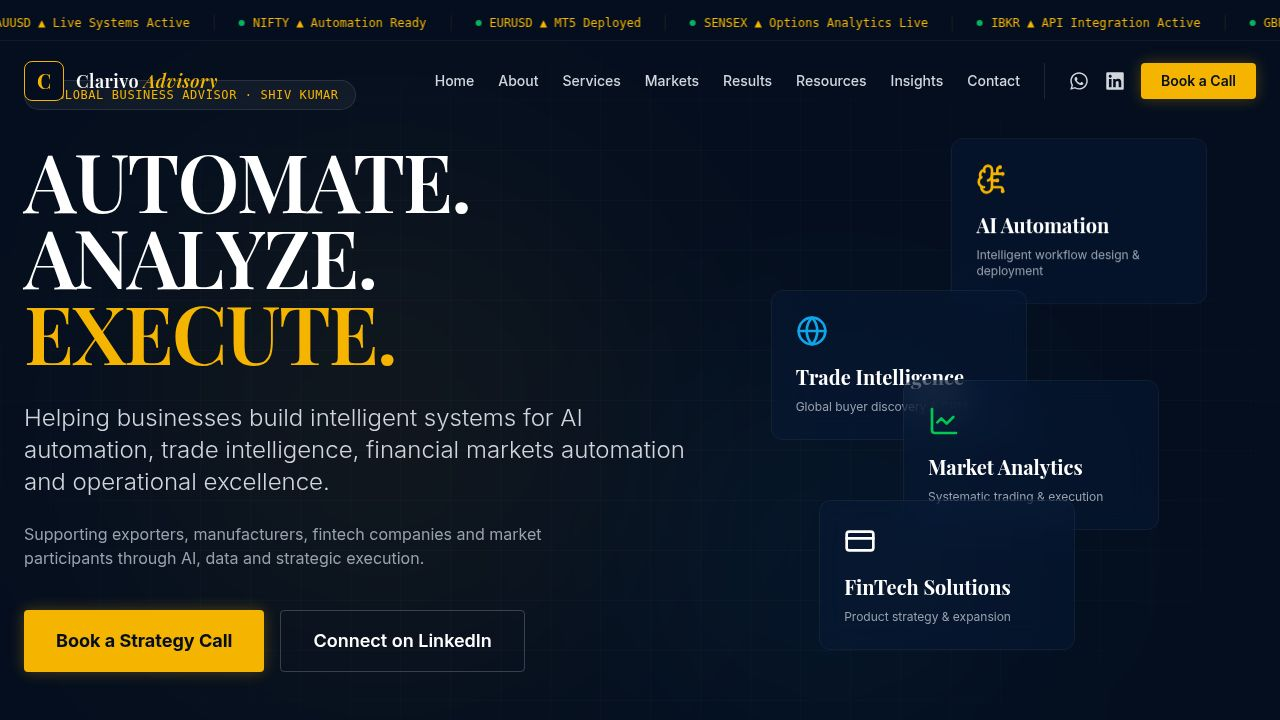
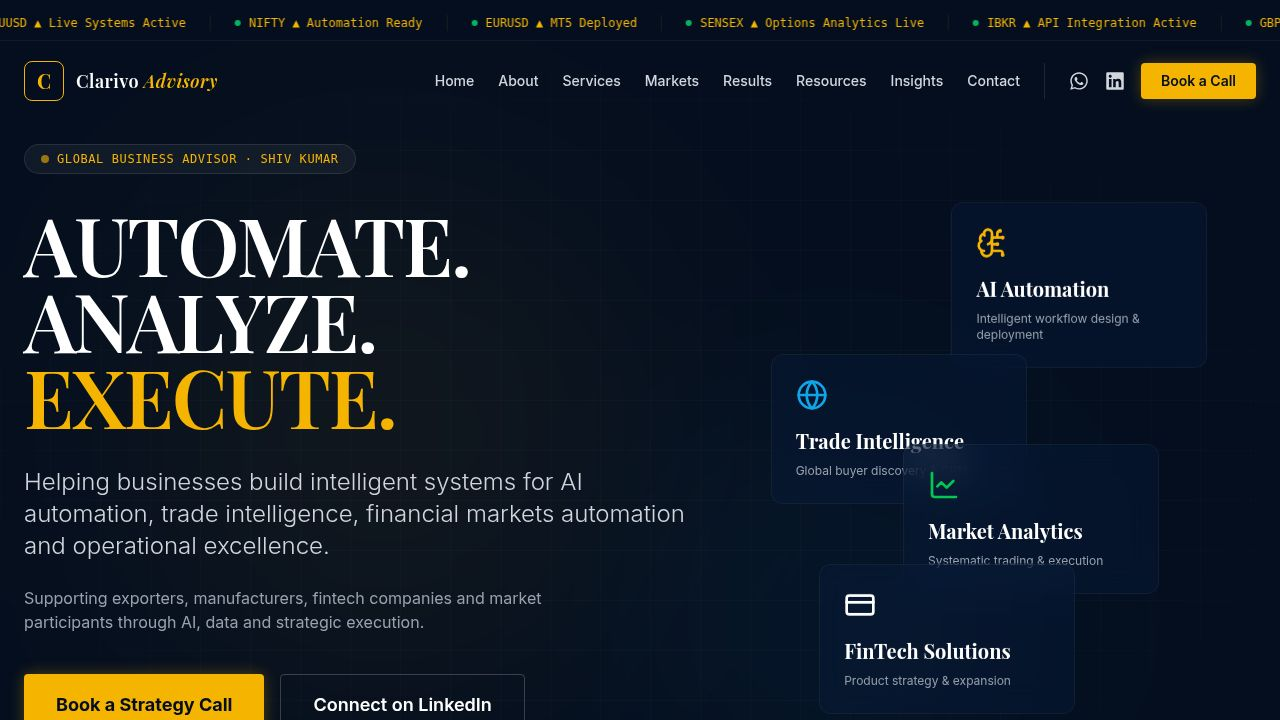
feat: nav overlap fix, crypto & custom strategy tabs, footer disclaimer, updated OG image

diff --git a/artifacts/clarivo/src/components/sections/Markets.tsx b/artifacts/clarivo/src/components/sections/Markets.tsx
@@ -67,6 +67,30 @@ export function Markets() {
       ]
     },
     {
+      id: "crypto",
+      name: "Crypto Market Automation",
+      cards: [
+        { symbol: "BTC", color: "bg-orange-500", title: "Bitcoin Automation", desc: "Systematic BTC trading strategies with trend-following signals, volatility-adjusted position sizing and automated execution across major crypto exchanges." },
+        { symbol: "ETH", color: "bg-indigo-500", title: "Ethereum Strategies", desc: "ETH options and spot automation, gas-aware execution logic, DeFi yield integration and multi-timeframe momentum systems." },
+        { symbol: "ARB", color: "bg-teal-500", title: "Crypto Arbitrage", desc: "Cross-exchange arbitrage detection, latency-optimised execution, spread monitoring and automated opportunity capture across centralised and decentralised venues." },
+        { symbol: "DeFi", color: "bg-purple-600", title: "DeFi Analytics", desc: "On-chain liquidity analysis, protocol yield tracking, smart contract interaction automation and DeFi portfolio monitoring dashboards." },
+        { symbol: "OCH", color: "bg-blue-500", title: "On-Chain Signals", desc: "Wallet flow analysis, exchange inflow/outflow monitoring, whale alert integration and on-chain data pipelines feeding automated trading decisions." },
+        { symbol: "CRM", color: "bg-red-500", title: "Crypto Risk Management", desc: "Drawdown controls, volatility kill switches, correlation-based position limits, funding rate monitoring and portfolio-level crypto risk dashboards." },
+      ]
+    },
+    {
+      id: "custom",
+      name: "Custom Strategy Automation",
+      cards: [
+        { symbol: "BA", color: "bg-violet-600", title: "Bespoke Algorithm Development", desc: "End-to-end custom algorithm design tailored to your market, timeframe and risk profile — from concept and signal research through to production-ready code." },
+        { symbol: "MA", color: "bg-blue-600", title: "Multi-Asset Automation", desc: "Unified automation frameworks spanning equities, forex, commodities and crypto — correlated position management, cross-asset hedging and consolidated reporting." },
+        { symbol: "SE", color: "bg-emerald-600", title: "Signal Engine Design", desc: "Custom signal generation pipelines combining technical, fundamental and alternative data sources with configurable filters, confidence scoring and alert delivery." },
+        { symbol: "BT", color: "bg-amber-600", title: "Backtesting & Optimisation", desc: "Rigorous historical testing with walk-forward validation, Monte Carlo simulation, parameter sensitivity analysis and overfitting controls for robust strategy development." },
+        { symbol: "LD", color: "bg-cyan-600", title: "Live Deployment & Monitoring", desc: "Broker-connected live deployment with real-time monitoring dashboards, automated error recovery, performance logging and continuous health checks." },
+        { symbol: "PA", color: "bg-rose-600", title: "Performance Analytics", desc: "Comprehensive strategy reporting covering returns, Sharpe ratio, max drawdown, win rate, expectancy and trade-level attribution for ongoing improvement." },
+      ]
+    },
+    {
       id: "brokers",
       name: "Brokers & Platforms",
       cards: [

diff --git a/artifacts/clarivo/src/components/sections/Footer.tsx b/artifacts/clarivo/src/components/sections/Footer.tsx
@@ -53,6 +53,13 @@ export function Footer() {
         <div className="text-center text-xs text-gray-500 font-medium">
           © {new Date().getFullYear()} Clarivo Advisory. All rights reserved. <span className="mx-2">|</span> clarivoadvisory.com
         </div>
+
+        {/* Regulatory Disclaimer */}
+        <div className="mt-6 pt-6 border-t border-white/5 text-center">
+          <p className="text-xs text-gray-600 leading-relaxed max-w-4xl mx-auto">
+            Clarivo Advisory is a technology provider and does not act as an investment adviser, research analyst or portfolio manager. We provide automation tools; all trading decisions and transactions are the user's own responsibility and are subject to market risk.
+          </p>
+        </div>
       </div>
     </footer>
   );

diff --git a/artifacts/clarivo/src/components/sections/Hero.tsx b/artifacts/clarivo/src/components/sections/Hero.tsx
@@ -19,7 +19,7 @@ export function Hero({ onBookCall }: HeroProps) {
   }, []);
 
   return (
-    <section id="home" className="relative min-h-[100dvh] flex items-center pt-20 overflow-hidden bg-[#040E1E]">
+    <section id="home" className="relative min-h-[100dvh] flex items-center pt-36 overflow-hidden bg-[#040E1E]">
       {/* Background Effects */}
       <div className="absolute inset-0 pointer-events-none">
         <div className="absolute top-[20%] left-[10%] w-[40vw] h-[40vw] bg-gold/5 rounded-full blur-[120px] mix-blend-screen" />